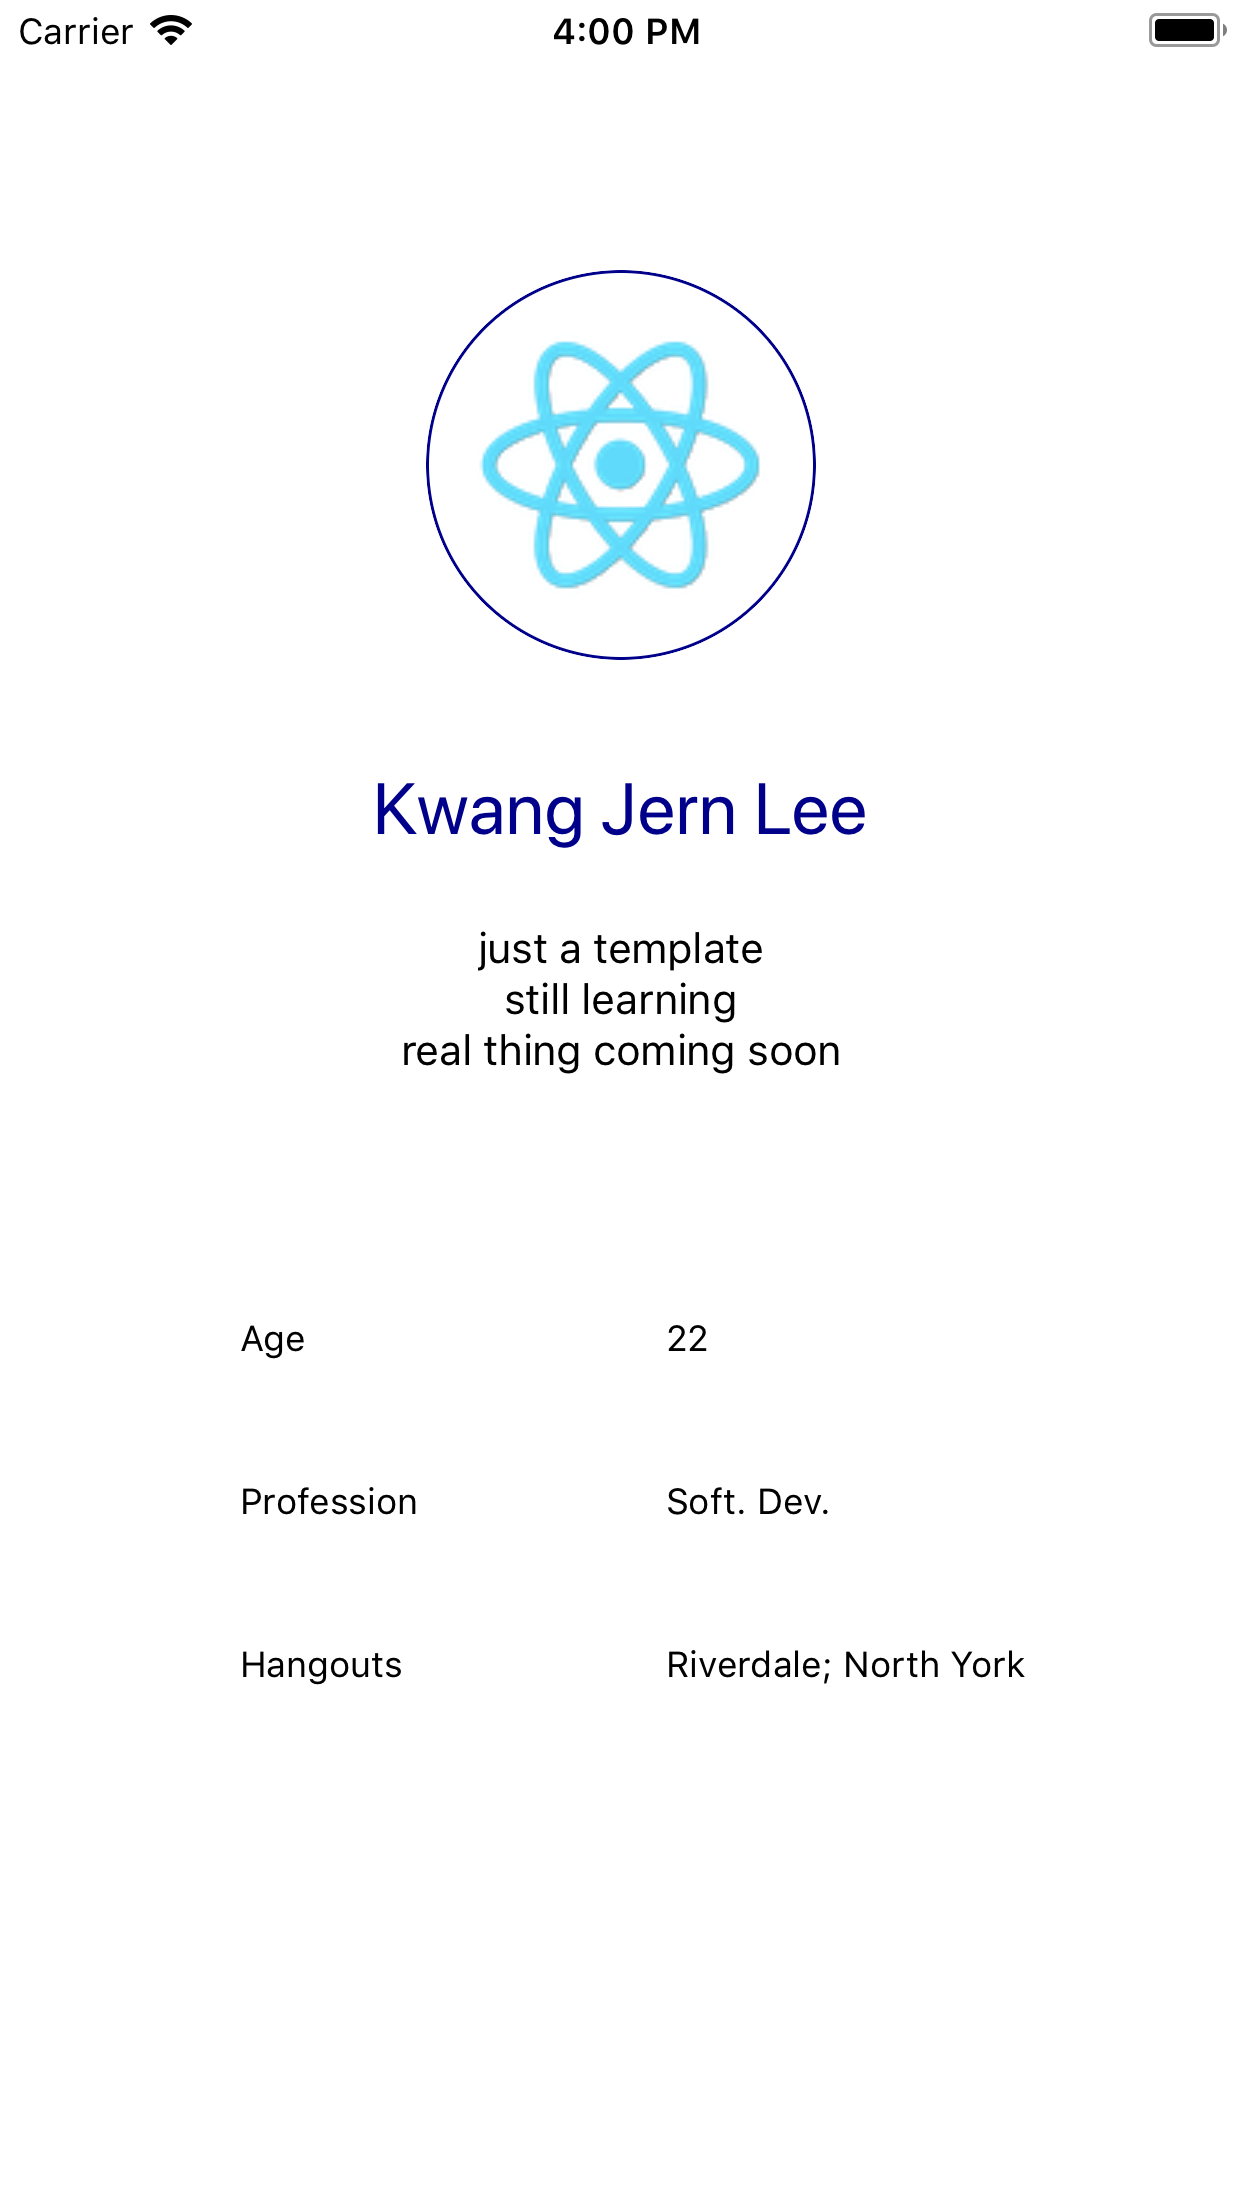
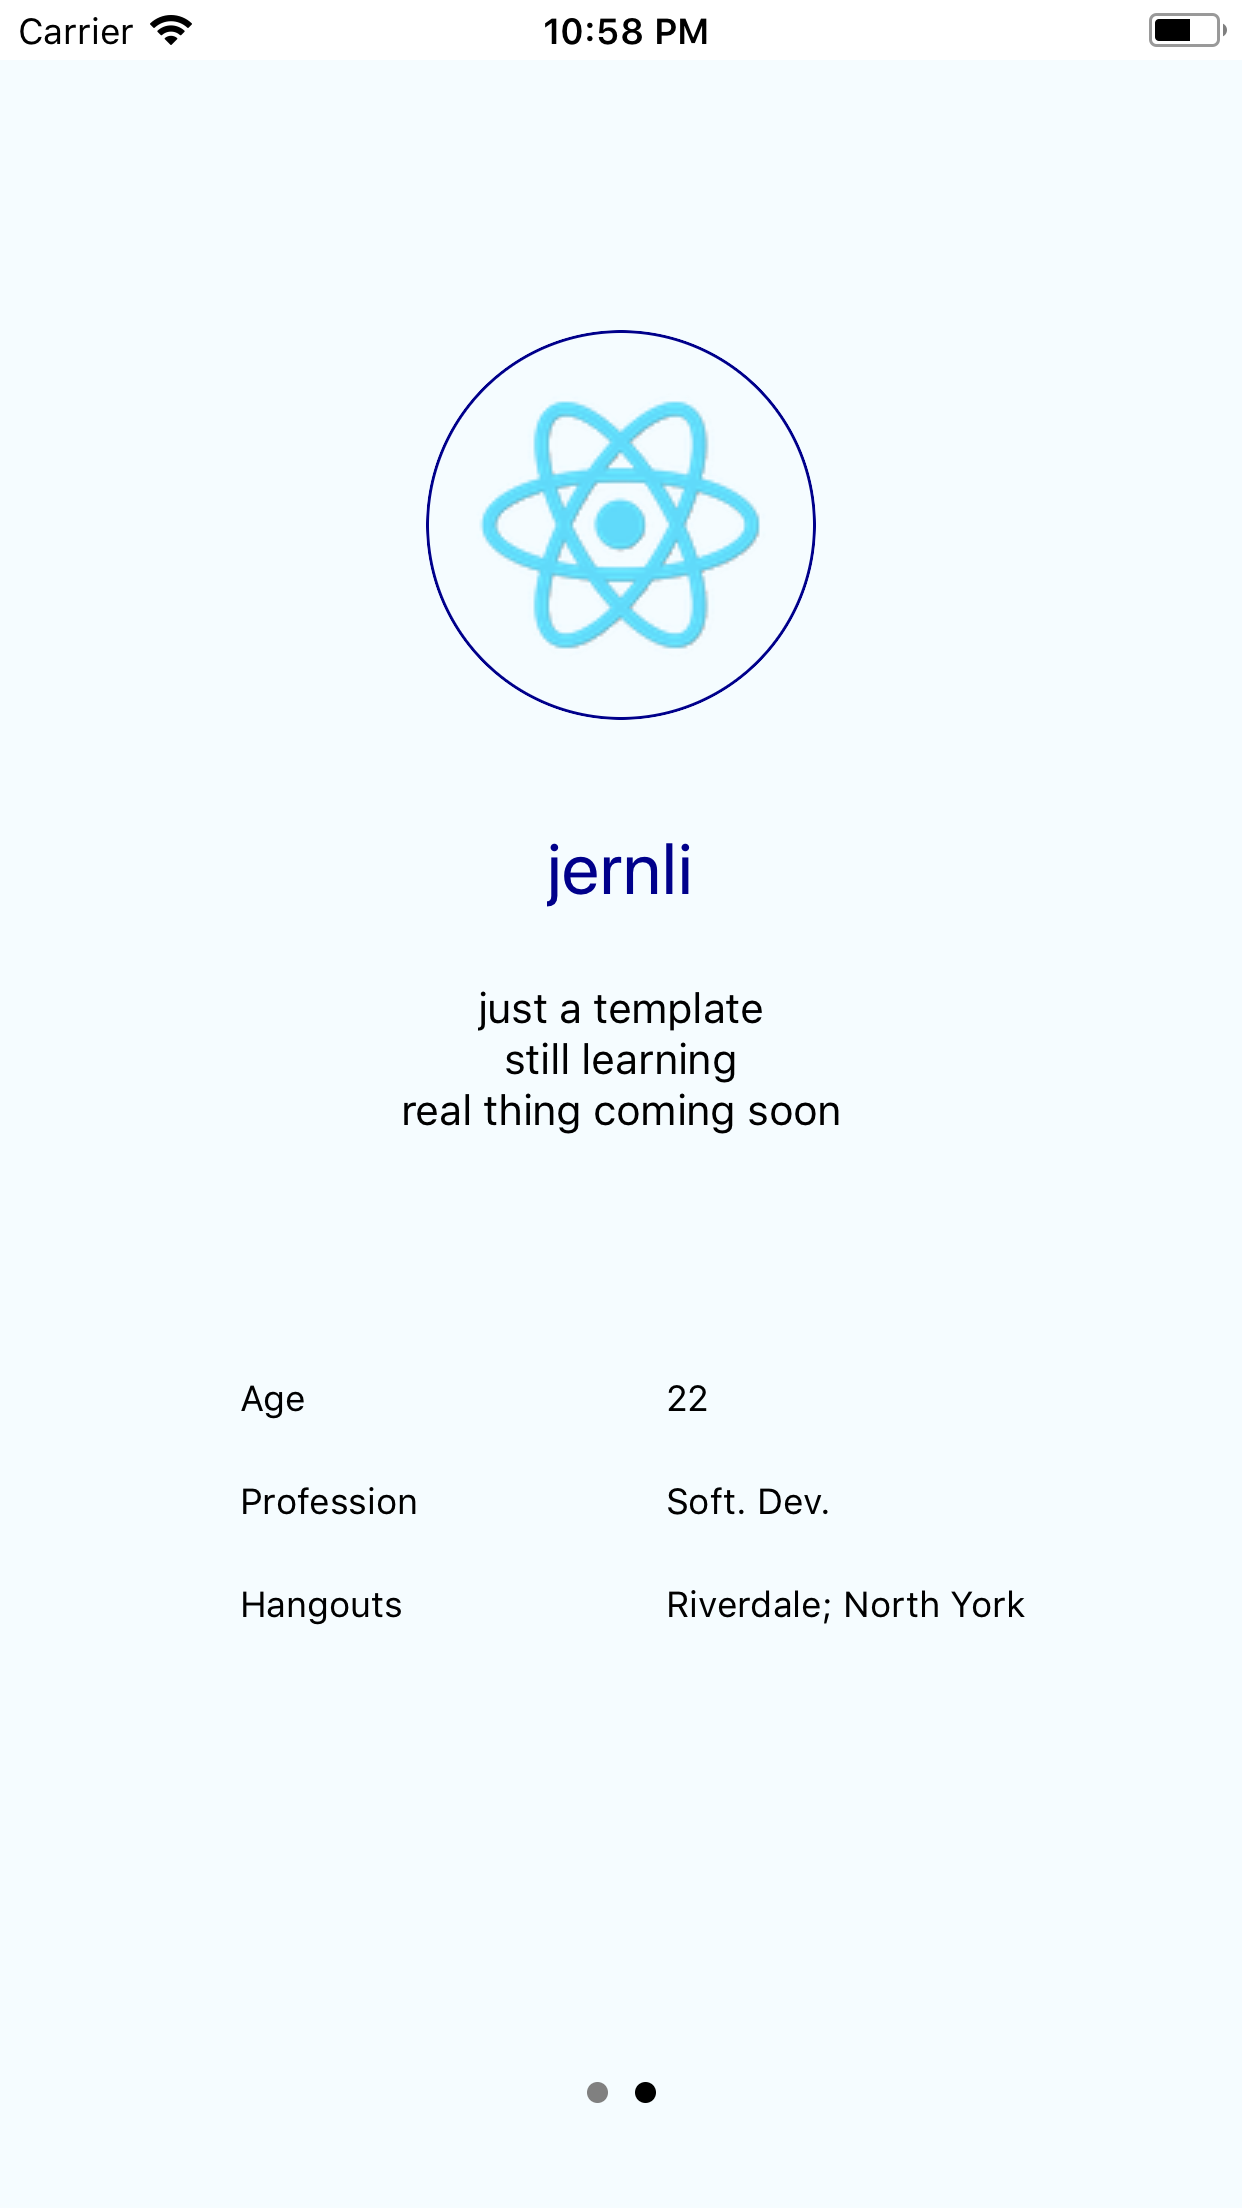
fixed pagecontrolIOS

diff --git a/app/scenes/PageControl/PageControl.js b/app/scenes/PageControl/PageControl.js
@@ -24,45 +24,56 @@ export default class PageControl extends Component{
 		}
 
 		this._onPageControlValueChange = this._onPageControlValueChange.bind(this)
+		this._onScroll = this._onScroll.bind(this)
 	}
 
-	_onPageControlValueChange(){
-
+	//bind this.state if you want to access it
+	_onPageControlValueChange(currentPage){
+		this.refs.ScrollView.scrollResponderScrollTo({
+			x: this.state.width * currentPage, y: 0, animated: true});
 	}
 
-	_onScroll(){
+	_onScroll({nativeEvent}){
+		let currentPage = Math.round(nativeEvent.contentOffset.x / 
+			nativeEvent.layoutMeasurement.width);
 
+		if(this.state.currentPage !== currentPage){
+			this.setState({currentPage});
+		}
 	}
 
 	render(){
 		return(
 			<ViewContainer>
 				<StatusbarBackground/>
+				<View style={styles.container}>
+					<View style={styles.scrollViewContainer}>
+						<ScrollView 
+							horizontal={true}
+							ref='ScrollView'
+							onScroll={this._onScroll}
+							pagingEnabled={true}
+							showsHorizontalScrollIndicator={false}
+						>
+							<View style={[styles.scrollScene, {width: this.state.width}]}>
+								<Discover />
+							</View>
+							<View style={[styles.scrollScene, {width: this.state.width}]}>
+								<Profile />
+							</View>
+						</ScrollView>
+					</View>
 
-				<View style={styles.scrollViewContainer}>
-					<ScrollView 
-						horizontal={true}
-						ref='ScrollView'
-						onScroll={this._onScroll}
-					>
-						<View style={[styles.scrollScene, {width: this.state.width}]}>
-							<Discover />
-						</View>
-						<View style={[styles.scrollScene, {width: this.state.width}]}>
-							<Profile />
-						</View>
-					</ScrollView>
-				</View>
-
-				<View style={styles.pageControl}>
-					<PageControlIOS
-						style={{position:'relative', left:0, right:0, bottom:10}}
-						currentPage={this.state.currentPage}
-						numberOfPages={2}
-						pageIndicatorTintColor='grey'
-						currentPageIndicatorTintColor='black'
-						onValueChange={this._onPageControlValueChange}
-					/>
+					<View style={styles.pageControlContainer}>
+						<PageControlIOS
+							style={{position:'absolute', left:0, right:0, bottom:20}}
+							currentPage={this.state.currentPage}
+							numberOfPages={2}
+							pageIndicatorTintColor='grey'
+							currentPageIndicatorTintColor='black'
+							onValueChange={this._onPageControlValueChange}
+						/>
+					</View>
 				</View>
 			</ViewContainer>
 		)
@@ -70,14 +81,21 @@ export default class PageControl extends Component{
 }
 
 const styles = StyleSheet.create({
-	pageControl:{
+		
+	container: {
+    flex: 1,
+    justifyContent: 'center',
+    backgroundColor: '#F5FCFF',
+  	},
 
+	pageControlContainer:{
+		alignItems:'center'
 	},
 	scrollViewContainer:{
 		flex: 1
 	},
 	scrollScene:{
 		//width: window.width,
-		//backgroundColor:'red'
+		//backgroundColor:'grey'
 	}
 })

diff --git a/app/scenes/Profile.js b/app/scenes/Profile.js
@@ -21,7 +21,7 @@ export default class Profile extends Component{
 				</View>
 
 				<View style={styles.name}>
-					<Text style={styles.nameText}>Kwang Jern Lee</Text>
+					<Text style={styles.nameText}>jernli</Text>
 				</View>
 
 				<View style={styles.runnersDescription}>
@@ -93,7 +93,7 @@ const styles = StyleSheet.create({
 
 	personalDescriptionText:{
 		fontSize:12,
-		marginBottom: 40
+		marginBottom: 20
 	},
 
 	columnOne:{
